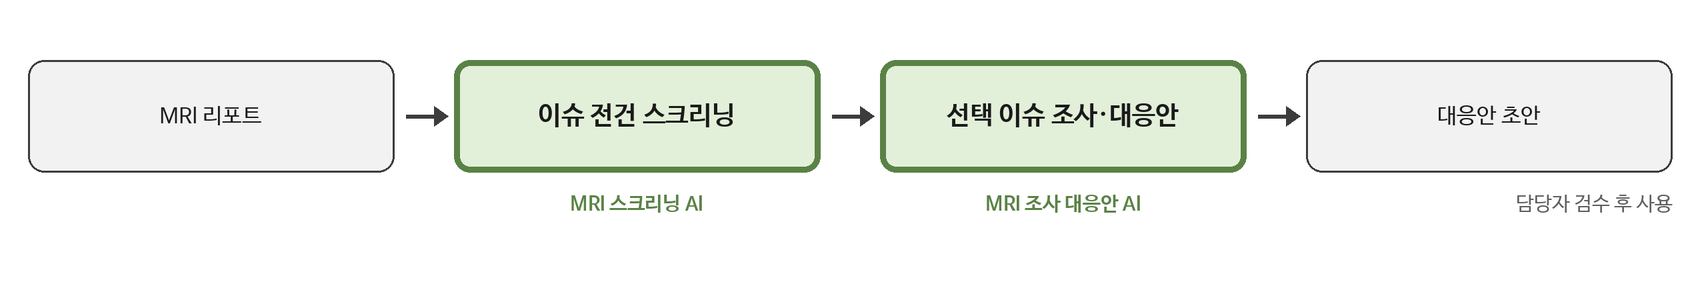
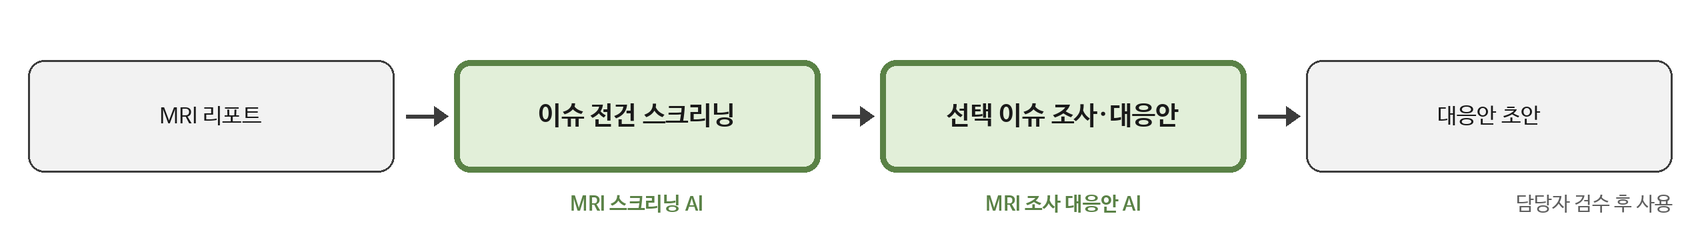
보고서 도식: 전체 그림 아래 여백 축소
개요 문서를 한 장에 맞추기 위해 wholemap 캔버스 높이를 150→116 으로
조정(내용 아래 빈 공간 제거).

Claude-Session: https://claude.ai/code/session_01Wg1vwgS2AvFkqdrGTsfUhg

diff --git a/06_project_docs/REPORT_BUILD/diagram.py b/06_project_docs/REPORT_BUILD/diagram.py
@@ -125,7 +125,7 @@ agent2(os.path.join(d, 'fig_agent2.png'))
 
 # ─────────────────── 공통 전체 구성 (두 보고서 공용) ───────────────────
 def wholemap(path, active):      # active: 1 · 2 · 0(둘 다)
-    w, h = W, 150*S
+    w, h = W, 116*S
     c = Canvas(w, h)
     f_b, f_s, f_t = F(13, True), F(11), F(10, True)
     pad = 14*S
